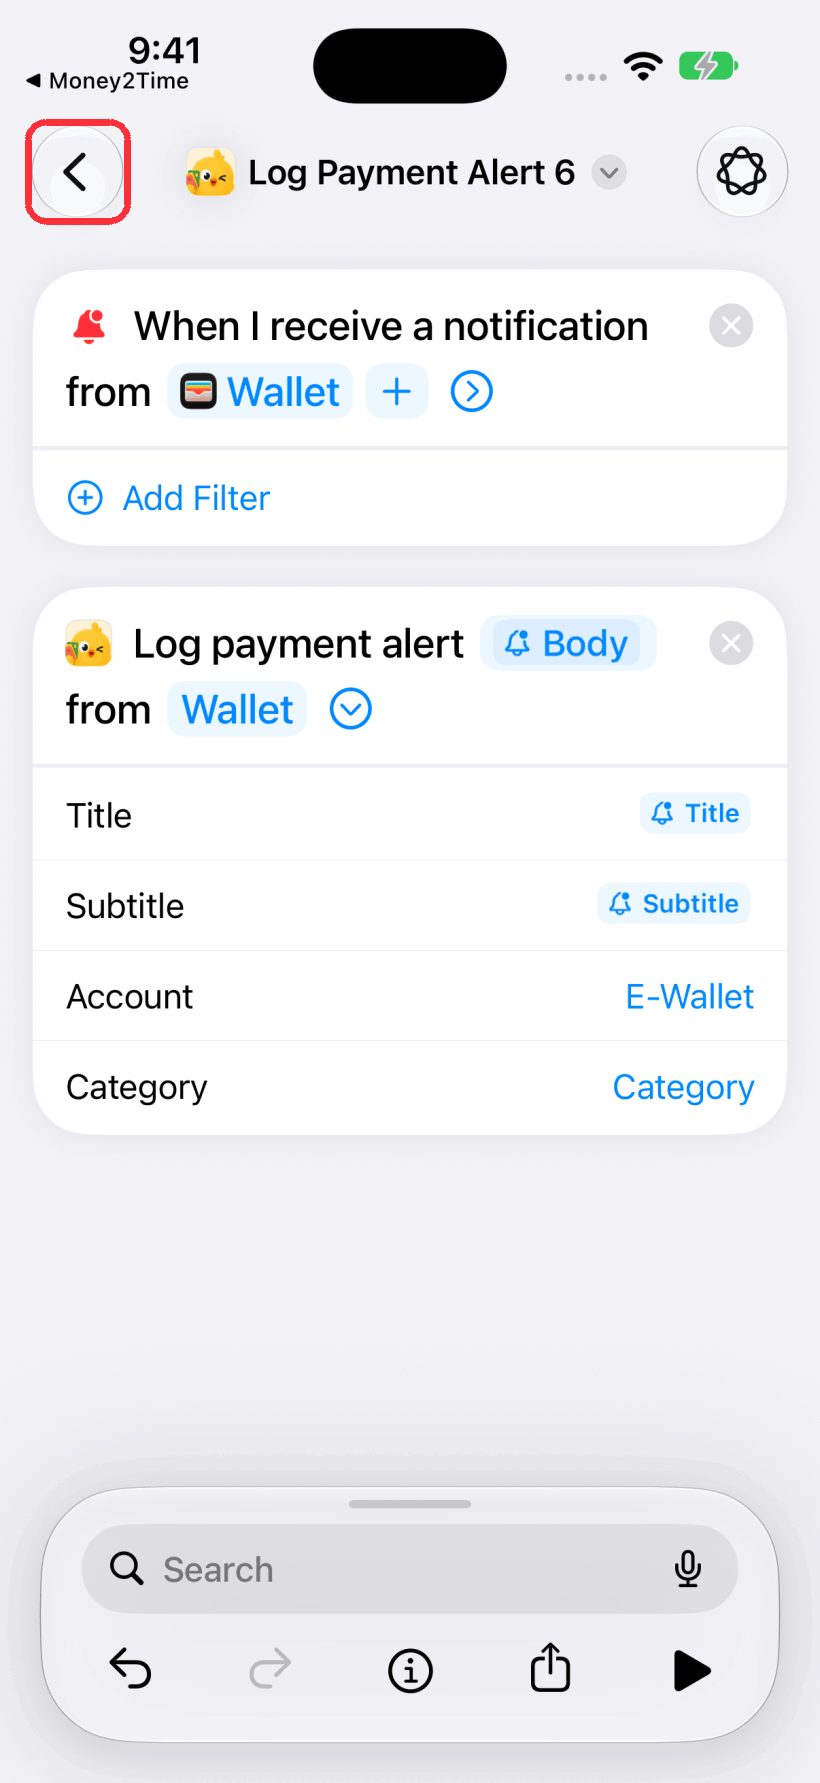
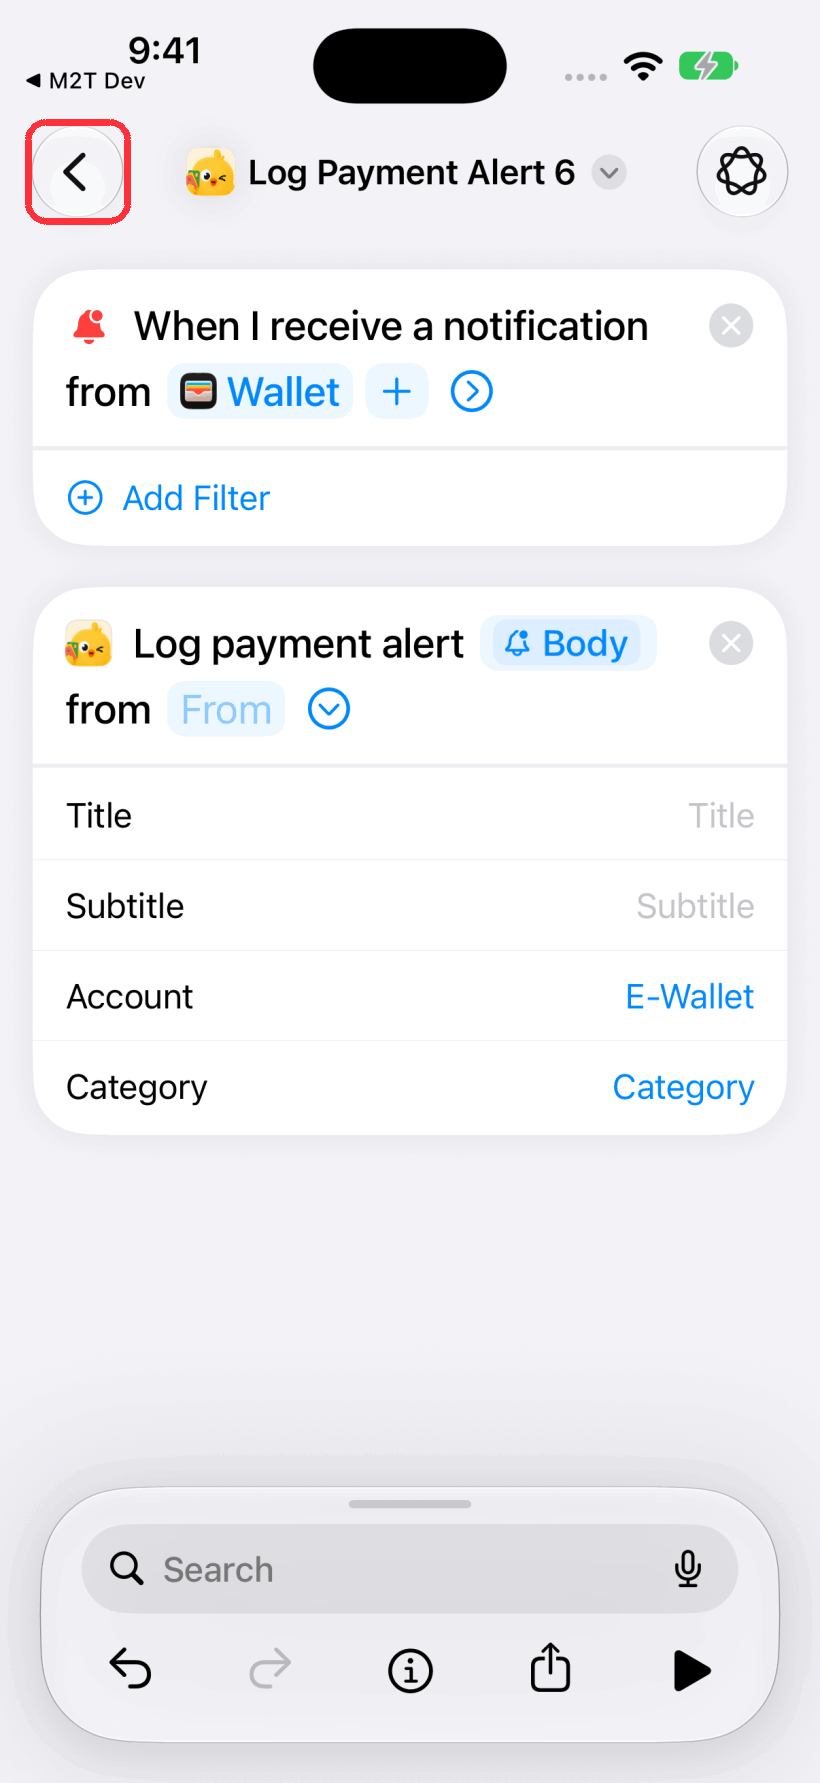
Simplify iOS app notification tutorial setup

diff --git a/lib/i18n/locales/th.ts b/lib/i18n/locales/th.ts
@@ -1217,9 +1217,8 @@ const th = {
       payment_alerts_ios_step_2: 'ค้นหา Notification แล้วเลือก',
       payment_alerts_ios_step_3: 'ค้นหา Log Payment Alert แล้วเพิ่ม',
       payment_alerts_ios_step_4: 'แตะ Message ใน Log Payment Alert แล้วเลือก Select Variable',
-      payment_alerts_ios_step_5: 'แตะ From แล้วพิมพ์ชื่อแอป',
       payment_alerts_ios_step_6:
-        'แตะลูกศรของการทำงาน แล้วแตะ Account เลือกบัญชีที่จะบันทึกการชำระเงินของแอปนี้',
+        'แตะลูกศรของการทำงาน แล้วแตะ Account เลือกบัญชีที่จะบันทึกการชำระเงินของแอปนี้ เว้น Category ว่างไว้เพื่อจับคู่หมวดหมู่จากคำสำคัญโดยอัตโนมัติ',
       payment_alerts_ios_step_7:
         'แตะกลับเพื่อบันทึก ทำซ้ำสำหรับแต่ละแอปธนาคารหรือกระเป๋าเงินอิเล็กทรอนิกส์ การชำระเงินจะถูกบันทึกเมื่อเปิด Money2Time ครั้งถัดไป',
       payment_alerts_android_disclosure: 'อ่านวิธีใช้สิทธิ์เข้าถึงการแจ้งเตือน แล้วแตะ Continue',
@@ -1229,8 +1228,6 @@ const th = {
         'แตะลูกศรข้างแอป เปิด Automation ไว้ และปิด Notify เพื่อบันทึกโดยไม่แจ้งเตือน',
       payment_alerts_ios_input: 'เลือกตัวแปร Notification ใต้ตัวกระตุ้น',
       payment_alerts_ios_body: 'แตะตัวแปรที่ใส่ เลือก Body แล้วเลือก Return',
-      payment_alerts_ios_fields:
-        'ตั้ง Title และ Subtitle เป็นคุณสมบัติ Notification ที่ตรงกันด้วยวิธีเดียวกัน เว้น Category ว่างเพื่อจับคู่คำสำคัญ',
     },
     title: 'ตั้งค่า',
     display: 'การแสดงผล',

diff --git a/lib/i18n/locales/hi.ts b/lib/i18n/locales/hi.ts
@@ -1233,9 +1233,8 @@ const hi = {
       payment_alerts_ios_step_3: 'Log Payment Alert खोजें और जोड़ें।',
       payment_alerts_ios_step_4:
         'Log Payment Alert में Message और फिर Select Variable पर टैप करें।',
-      payment_alerts_ios_step_5: 'From पर टैप करके ऐप का नाम लिखें।',
       payment_alerts_ios_step_6:
-        'एक्शन के तीर पर, फिर Account पर टैप करें। चुनें कि इस ऐप के भुगतान किस खाते में दर्ज हों।',
+        'एक्शन के तीर पर, फिर Account पर टैप करें। चुनें कि इस ऐप के भुगतान किस खाते में दर्ज हों। कीवर्ड से अपने आप श्रेणी चुनने के लिए Category खाली छोड़ें।',
       payment_alerts_ios_step_7:
         'सहेजने के लिए वापस जाएँ। हर बैंक या ई-वॉलेट ऐप के लिए दोहराएँ। अगली बार Money2Time खोलने पर भुगतान दर्ज होंगे।',
       payment_alerts_android_disclosure:
@@ -1246,8 +1245,6 @@ const hi = {
         'ऐप के पास तीर पर टैप करें। Automation चालू रखें और बिना सूचना के लॉग करने के लिए Notify बंद करें।',
       payment_alerts_ios_input: 'ट्रिगर के नीचे Notification वेरिएबल चुनें।',
       payment_alerts_ios_body: 'जोड़े गए वेरिएबल पर टैप करें, Body चुनें और फिर Return।',
-      payment_alerts_ios_fields:
-        'इसी तरह Title और Subtitle में संबंधित Notification गुण चुनें। कीवर्ड मिलान के लिए Category खाली छोड़ें।',
     },
     title: 'सेटिंग्स',
     display: 'डिस्प्ले',

diff --git a/lib/i18n/locales/uk.ts b/lib/i18n/locales/uk.ts
@@ -1235,9 +1235,8 @@ const uk = {
       payment_alerts_ios_step_2: 'Знайдіть Notification та виберіть його.',
       payment_alerts_ios_step_3: 'Знайдіть Log Payment Alert і додайте його.',
       payment_alerts_ios_step_4: 'Натисніть Message у Log Payment Alert, потім Select Variable.',
-      payment_alerts_ios_step_5: 'Торкніться From і введіть назву застосунку.',
       payment_alerts_ios_step_6:
-        'Торкніться стрілки дії, потім Account. Виберіть рахунок для запису платежів цього застосунку.',
+        'Торкніться стрілки дії, потім Account. Виберіть рахунок для запису платежів цього застосунку. Залиште Category порожнім для автоматичного зіставлення за ключовими словами.',
       payment_alerts_ios_step_7:
         'Поверніться назад для збереження. Повторіть для кожного застосунку банку або гаманця. Платежі запишуться під час наступного відкриття Money2Time.',
       payment_alerts_android_disclosure:
@@ -1248,8 +1247,6 @@ const uk = {
         'Натисніть стрілку біля застосунку. Залиште Automation увімкненим і вимкніть Notify для тихого запису.',
       payment_alerts_ios_input: 'Виберіть змінну Notification під тригером.',
       payment_alerts_ios_body: 'Натисніть вставлену змінну, виберіть Body, потім Return.',
-      payment_alerts_ios_fields:
-        'Так само задайте Title і Subtitle відповідні властивості Notification. Залиште Category порожнім для зіставлення за ключовими словами.',
     },
     title: 'Налаштування',
     display: 'Відображення',

diff --git a/lib/i18n/locales/ru.ts b/lib/i18n/locales/ru.ts
@@ -1242,9 +1242,8 @@ const ru = {
       payment_alerts_ios_step_2: 'Найдите Notification и выберите его.',
       payment_alerts_ios_step_3: 'Найдите Log Payment Alert и добавьте его.',
       payment_alerts_ios_step_4: 'Нажмите Message в Log Payment Alert, затем Select Variable.',
-      payment_alerts_ios_step_5: 'Нажмите From и введите название приложения.',
       payment_alerts_ios_step_6:
-        'Нажмите стрелку действия, затем Account. Выберите счёт для записи платежей этого приложения.',
+        'Нажмите стрелку действия, затем Account. Выберите счёт для записи платежей этого приложения. Оставьте Category пустым для автоматического подбора по ключевым словам.',
       payment_alerts_ios_step_7:
         'Вернитесь назад для сохранения. Повторите для каждого приложения банка или кошелька. Платежи запишутся при следующем открытии Money2Time.',
       payment_alerts_android_disclosure:
@@ -1255,8 +1254,6 @@ const ru = {
         'Нажмите стрелку рядом с приложением. Оставьте Automation включённым и отключите Notify для записи без уведомлений.',
       payment_alerts_ios_input: 'Выберите переменную Notification под триггером.',
       payment_alerts_ios_body: 'Нажмите вставленную переменную, выберите Body, затем Return.',
-      payment_alerts_ios_fields:
-        'Так же задайте Title и Subtitle соответствующие свойства Notification. Оставьте Category пустым для подбора по ключевым словам.',
     },
     title: 'Настройки',
     display: 'Отображение',

diff --git a/lib/i18n/locales/ja.ts b/lib/i18n/locales/ja.ts
@@ -1233,9 +1233,8 @@ const ja = {
       payment_alerts_ios_step_2: 'Notificationを検索して選択します。',
       payment_alerts_ios_step_3: 'Log Payment Alert を検索して追加します。',
       payment_alerts_ios_step_4: 'Log Payment AlertのMessage、Select Variableの順にタップします。',
-      payment_alerts_ios_step_5: 'From をタップしてアプリ名を入力します。',
       payment_alerts_ios_step_6:
-        'アクションの矢印、Account の順にタップし、このアプリの支払いを記録する口座を選びます。',
+        'アクションの矢印、Account の順にタップし、このアプリの支払いを記録する口座を選びます。 Category は空欄のままにすると、キーワードから自動で分類されます。',
       payment_alerts_ios_step_7:
         '戻るをタップして保存します。銀行や電子ウォレットのアプリごとに繰り返してください。次に Money2Time を開いたときに支払いが記録されます。',
       payment_alerts_android_disclosure: '通知へのアクセスの使い方を読み、Continueをタップします。',
@@ -1245,8 +1244,6 @@ const ja = {
         'アプリの横の矢印をタップします。Automationをオンのままにし、Notifyをオフにすると通知せず記録できます。',
       payment_alerts_ios_input: 'トリガーの下のNotification変数を選びます。',
       payment_alerts_ios_body: '挿入した変数をタップし、Body、Returnの順に選びます。',
-      payment_alerts_ios_fields:
-        '同じ手順でTitleとSubtitleに対応するNotificationのプロパティを設定します。キーワード照合を使う場合はCategoryを未設定にします。',
     },
     title: '設定',
     display: '表示',

diff --git a/lib/i18n/locales/ko.ts b/lib/i18n/locales/ko.ts
@@ -1217,9 +1217,8 @@ const ko = {
       payment_alerts_ios_step_2: 'Notification을 검색해 선택하세요.',
       payment_alerts_ios_step_3: 'Log Payment Alert를 검색해 추가하세요.',
       payment_alerts_ios_step_4: 'Log Payment Alert에서 Message, Select Variable을 누르세요.',
-      payment_alerts_ios_step_5: 'From을 탭하고 앱 이름을 입력하세요.',
       payment_alerts_ios_step_6:
-        '동작 화살표를 탭한 다음 Account를 탭하세요. 이 앱의 결제를 기록할 계좌를 선택하세요.',
+        '동작 화살표를 탭한 다음 Account를 탭하세요. 이 앱의 결제를 기록할 계좌를 선택하세요. Category를 비워 두면 키워드로 자동 분류됩니다.',
       payment_alerts_ios_step_7:
         '뒤로 가기를 탭해 저장하세요. 은행 또는 전자 지갑 앱마다 반복하세요. 다음에 Money2Time을 열면 결제가 기록됩니다.',
       payment_alerts_android_disclosure: '알림 접근 권한의 사용 방법을 읽고 Continue를 누르세요.',
@@ -1229,8 +1228,6 @@ const ko = {
         '앱 옆 화살표를 누르세요. Automation을 켜 두고 조용히 기록하려면 Notify를 끄세요.',
       payment_alerts_ios_input: '트리거 아래의 Notification 변수를 선택하세요.',
       payment_alerts_ios_body: '삽입된 변수를 눌러 Body, Return을 선택하세요.',
-      payment_alerts_ios_fields:
-        '같은 방법으로 Title과 Subtitle에 해당 Notification 속성을 지정하세요. 키워드 매칭을 쓰려면 Category를 비워 두세요.',
     },
     title: '설정',
     display: '화면',

diff --git a/lib/i18n/locales/fr.ts b/lib/i18n/locales/fr.ts
@@ -1249,9 +1249,8 @@ const fr = {
       payment_alerts_ios_step_2: 'Recherchez Notification et sélectionnez-le.',
       payment_alerts_ios_step_3: 'Recherchez Log Payment Alert et ajoutez-le.',
       payment_alerts_ios_step_4: 'Touchez Message dans Log Payment Alert, puis Select Variable.',
-      payment_alerts_ios_step_5: 'Touchez From et saisissez le nom de l’app.',
       payment_alerts_ios_step_6:
-        'Touchez la flèche de l’action, puis Account. Choisissez où enregistrer les paiements de cette app.',
+        'Touchez la flèche de l’action, puis Account. Choisissez où enregistrer les paiements de cette app. Laissez Category vide pour une attribution automatique par mots-clés.',
       payment_alerts_ios_step_7:
         'Revenez en arrière pour enregistrer. Répétez pour chaque app bancaire ou portefeuille électronique. Les paiements seront enregistrés à la prochaine ouverture de Money2Time.',
       payment_alerts_android_disclosure:
@@ -1262,8 +1261,6 @@ const fr = {
         'Touchez la flèche près de l’application. Gardez Automation activé et désactivez Notify pour enregistrer silencieusement.',
       payment_alerts_ios_input: 'Sélectionnez la variable Notification sous le déclencheur.',
       payment_alerts_ios_body: 'Touchez la variable insérée, choisissez Body, puis Return.',
-      payment_alerts_ios_fields:
-        'Associez Title et Subtitle aux propriétés Notification correspondantes de la même manière. Laissez Category vide pour utiliser les mots-clés.',
     },
     title: 'Réglages',
     display: 'Affichage',

diff --git a/lib/i18n/locales/vi.ts b/lib/i18n/locales/vi.ts
@@ -1227,9 +1227,8 @@ const vi = {
       payment_alerts_ios_step_2: 'Tìm Notification rồi chọn.',
       payment_alerts_ios_step_3: 'Tìm Log Payment Alert và thêm vào.',
       payment_alerts_ios_step_4: 'Nhấn Message trong Log Payment Alert rồi Select Variable.',
-      payment_alerts_ios_step_5: 'Chạm From và nhập tên ứng dụng.',
       payment_alerts_ios_step_6:
-        'Chạm mũi tên tác vụ, rồi Account. Chọn tài khoản để ghi lại thanh toán của ứng dụng này.',
+        'Chạm mũi tên tác vụ, rồi Account. Chọn tài khoản để ghi lại thanh toán của ứng dụng này. Để trống Category để tự động phân loại theo từ khóa.',
       payment_alerts_ios_step_7:
         'Chạm quay lại để lưu. Lặp lại cho mỗi ứng dụng ngân hàng hoặc ví điện tử. Thanh toán được ghi khi bạn mở Money2Time lần tới.',
       payment_alerts_android_disclosure:
@@ -1240,8 +1239,6 @@ const vi = {
         'Nhấn mũi tên cạnh ứng dụng. Giữ Automation bật và tắt Notify để ghi lại mà không thông báo.',
       payment_alerts_ios_input: 'Chọn biến Notification bên dưới trình kích hoạt.',
       payment_alerts_ios_body: 'Nhấn biến đã chèn, chọn Body rồi Return.',
-      payment_alerts_ios_fields:
-        'Đặt Title và Subtitle thành thuộc tính Notification tương ứng theo cùng cách. Để trống Category để khớp từ khóa.',
     },
     title: 'Cài đặt',
     display: 'Hiển thị',

diff --git a/lib/i18n/locales/pl.ts b/lib/i18n/locales/pl.ts
@@ -1240,9 +1240,8 @@ const pl = {
       payment_alerts_ios_step_2: 'Wyszukaj Notification i wybierz tę opcję.',
       payment_alerts_ios_step_3: 'Wyszukaj Log Payment Alert i dodaj tę akcję.',
       payment_alerts_ios_step_4: 'Stuknij Message w Log Payment Alert, potem Select Variable.',
-      payment_alerts_ios_step_5: 'Stuknij From i wpisz nazwę aplikacji.',
       payment_alerts_ios_step_6:
-        'Stuknij strzałkę czynności, a następnie Account. Wybierz konto do zapisywania płatności tej aplikacji.',
+        'Stuknij strzałkę czynności, a następnie Account. Wybierz konto do zapisywania płatności tej aplikacji. Pozostaw Category puste, aby automatycznie dopasować słowa kluczowe.',
       payment_alerts_ios_step_7:
         'Wróć, aby zapisać. Powtórz dla każdej aplikacji bankowej lub portfela elektronicznego. Płatności zostaną zapisane przy następnym otwarciu Money2Time.',
       payment_alerts_android_disclosure:
@@ -1253,8 +1252,6 @@ const pl = {
         'Stuknij strzałkę obok aplikacji. Pozostaw Automation włączone i wyłącz Notify, aby zapisywać bez powiadomień.',
       payment_alerts_ios_input: 'Wybierz zmienną Notification pod wyzwalaczem.',
       payment_alerts_ios_body: 'Stuknij wstawioną zmienną, wybierz Body, potem Return.',
-      payment_alerts_ios_fields:
-        'Przypisz Title i Subtitle do odpowiednich właściwości Notification w ten sam sposób. Pozostaw Category puste, aby dopasowywać słowa kluczowe.',
     },
     title: 'Ustawienia',
     display: 'Wyświetlanie',

diff --git a/lib/i18n/locales/fil.ts b/lib/i18n/locales/fil.ts
@@ -1254,9 +1254,8 @@ const fil = {
       payment_alerts_ios_step_2: 'Hanapin at piliin ang Notification.',
       payment_alerts_ios_step_3: 'Hanapin ang Log Payment Alert at idagdag ito.',
       payment_alerts_ios_step_4: 'I-tap ang Message sa Log Payment Alert, saka Select Variable.',
-      payment_alerts_ios_step_5: 'I-tap ang From at ilagay ang pangalan ng app.',
       payment_alerts_ios_step_6:
-        'I-tap ang arrow ng action, pagkatapos ang Account. Piliin kung saan itatala ang mga bayad mula sa app na ito.',
+        'I-tap ang arrow ng action, pagkatapos ang Account. Piliin kung saan itatala ang mga bayad mula sa app na ito. Iwanang walang laman ang Category para sa awtomatikong pagtutugma ng keyword.',
       payment_alerts_ios_step_7:
         'Bumalik para i-save. Ulitin para sa bawat bank o e-wallet app. Itatala ang mga bayad sa susunod mong pagbukas ng Money2Time.',
       payment_alerts_android_disclosure:
@@ -1267,8 +1266,6 @@ const fil = {
         'I-tap ang arrow sa tabi ng app. Panatilihing naka-on ang Automation at i-off ang Notify para tahimik ang pag-log.',
       payment_alerts_ios_input: 'Piliin ang Notification variable sa ilalim ng trigger.',
       payment_alerts_ios_body: 'I-tap ang inilagay na variable, piliin ang Body, saka Return.',
-      payment_alerts_ios_fields:
-        'Itakda ang Title at Subtitle sa katumbas na Notification properties gamit ang parehong paraan. Iwanang walang laman ang Category para sa keyword matching.',
     },
     title: 'Settings',
     display: 'Display',

diff --git a/lib/i18n/locales/tr.ts b/lib/i18n/locales/tr.ts
@@ -1244,9 +1244,8 @@ const tr = {
       payment_alerts_ios_step_3: 'Log Payment Alert’i arayın ve ekleyin.',
       payment_alerts_ios_step_4:
         'Log Payment Alert içinde Message, ardından Select Variable seçeneğine dokunun.',
-      payment_alerts_ios_step_5: 'From’a dokunup uygulamanın adını yazın.',
       payment_alerts_ios_step_6:
-        'Eylem okuna, ardından Account’a dokunun. Bu uygulamanın ödemelerinin kaydedileceği hesabı seçin.',
+        'Eylem okuna, ardından Account’a dokunun. Bu uygulamanın ödemelerinin kaydedileceği hesabı seçin. Otomatik anahtar kelime eşleştirmesi için Category alanını boş bırakın.',
       payment_alerts_ios_step_7:
         'Kaydetmek için geri dönün. Her banka veya e-cüzdan uygulaması için tekrarlayın. Ödemeler Money2Time’ı bir sonraki açışınızda kaydedilir.',
       payment_alerts_android_disclosure:
@@ -1257,8 +1256,6 @@ const tr = {
         'Uygulamanın yanındaki oka dokunun. Automation açık kalsın; sessiz kayıt için Notify seçeneğini kapatın.',
       payment_alerts_ios_input: 'Tetikleyicinin altındaki Notification değişkenini seçin.',
       payment_alerts_ios_body: 'Eklenen değişkene dokunup Body, ardından Return seçeneğini seçin.',
-      payment_alerts_ios_fields:
-        'Aynı yöntemle Title ve Subtitle alanlarını ilgili Notification özelliklerine ayarlayın. Anahtar sözcük eşleştirmesi için Category boş kalsın.',
     },
     title: 'Ayarlar',
     display: 'Görünüm',

diff --git a/lib/i18n/locales/da.ts b/lib/i18n/locales/da.ts
@@ -1239,9 +1239,8 @@ const da = {
       payment_alerts_ios_step_2: 'Søg efter Notification, og vælg den.',
       payment_alerts_ios_step_3: 'Søg efter Log Payment Alert, og tilføj den.',
       payment_alerts_ios_step_4: 'Tryk Message i Log Payment Alert og derefter Select Variable.',
-      payment_alerts_ios_step_5: 'Tryk på From, og skriv appens navn.',
       payment_alerts_ios_step_6:
-        'Tryk på handlingens pil og derefter Account. Vælg, hvor denne apps betalinger skal registreres.',
+        'Tryk på handlingens pil og derefter Account. Vælg, hvor denne apps betalinger skal registreres. Lad Category være tom for automatisk søgeordsmatchning.',
       payment_alerts_ios_step_7:
         'Gå tilbage for at gemme. Gentag for hver bank- eller wallet-app. Betalingerne registreres, næste gang du åbner Money2Time.',
       payment_alerts_android_disclosure: 'Læs om brugen af notifikationsadgang, og tryk Continue.',
@@ -1251,8 +1250,6 @@ const da = {
         'Tryk på pilen ved appen. Behold Automation slået til, og slå Notify fra for lydløs registrering.',
       payment_alerts_ios_input: 'Vælg variablen Notification under udløseren.',
       payment_alerts_ios_body: 'Tryk på den indsatte variabel, vælg Body og derefter Return.',
-      payment_alerts_ios_fields:
-        'Indstil Title og Subtitle til de tilsvarende Notification-egenskaber på samme måde. Lad Category være tom for nøgleordsmatchning.',
     },
     title: 'Indstillinger',
     display: 'Visning',
